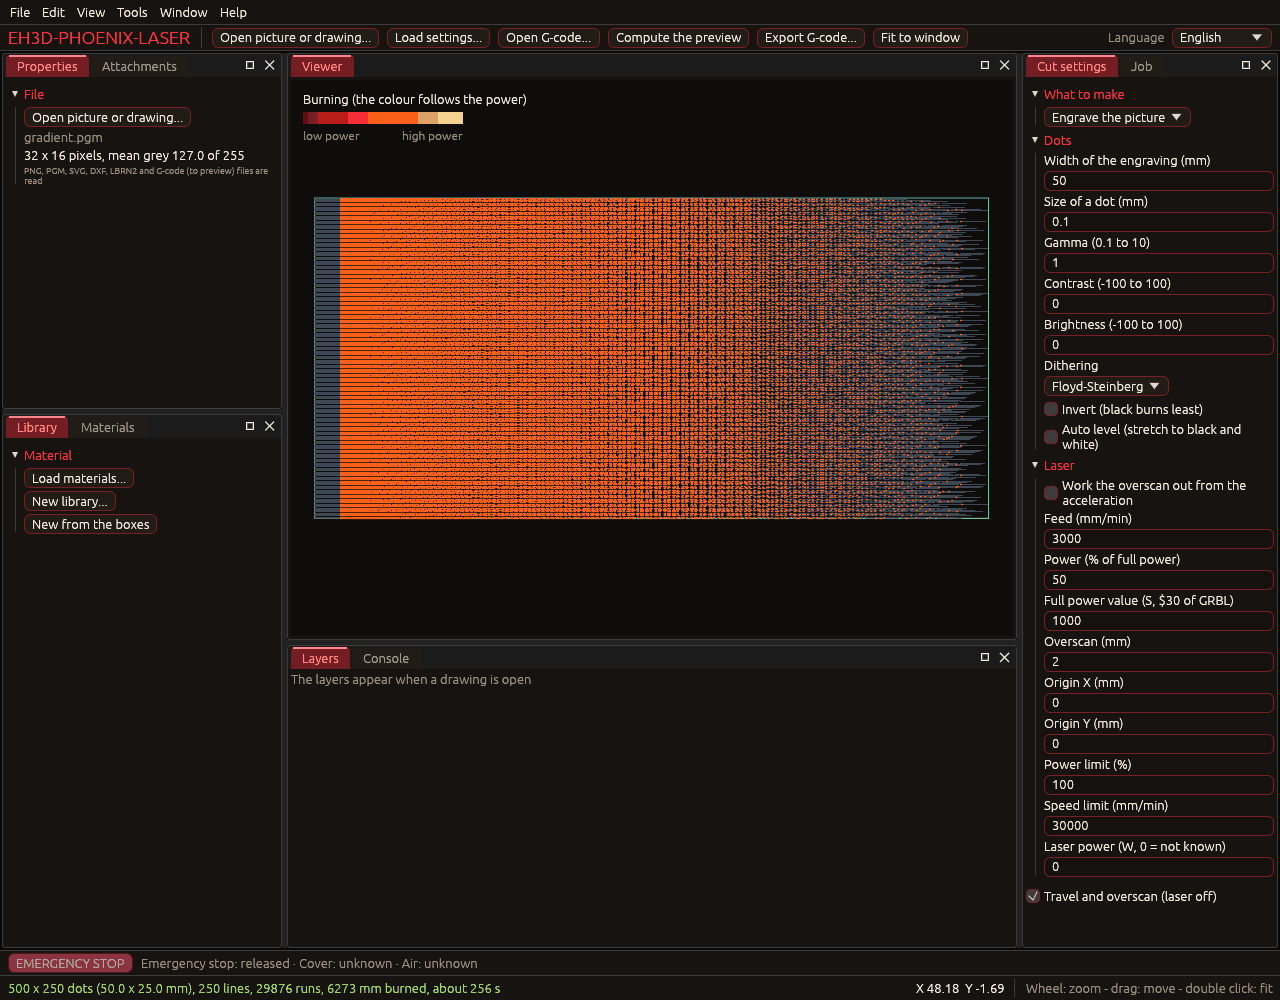
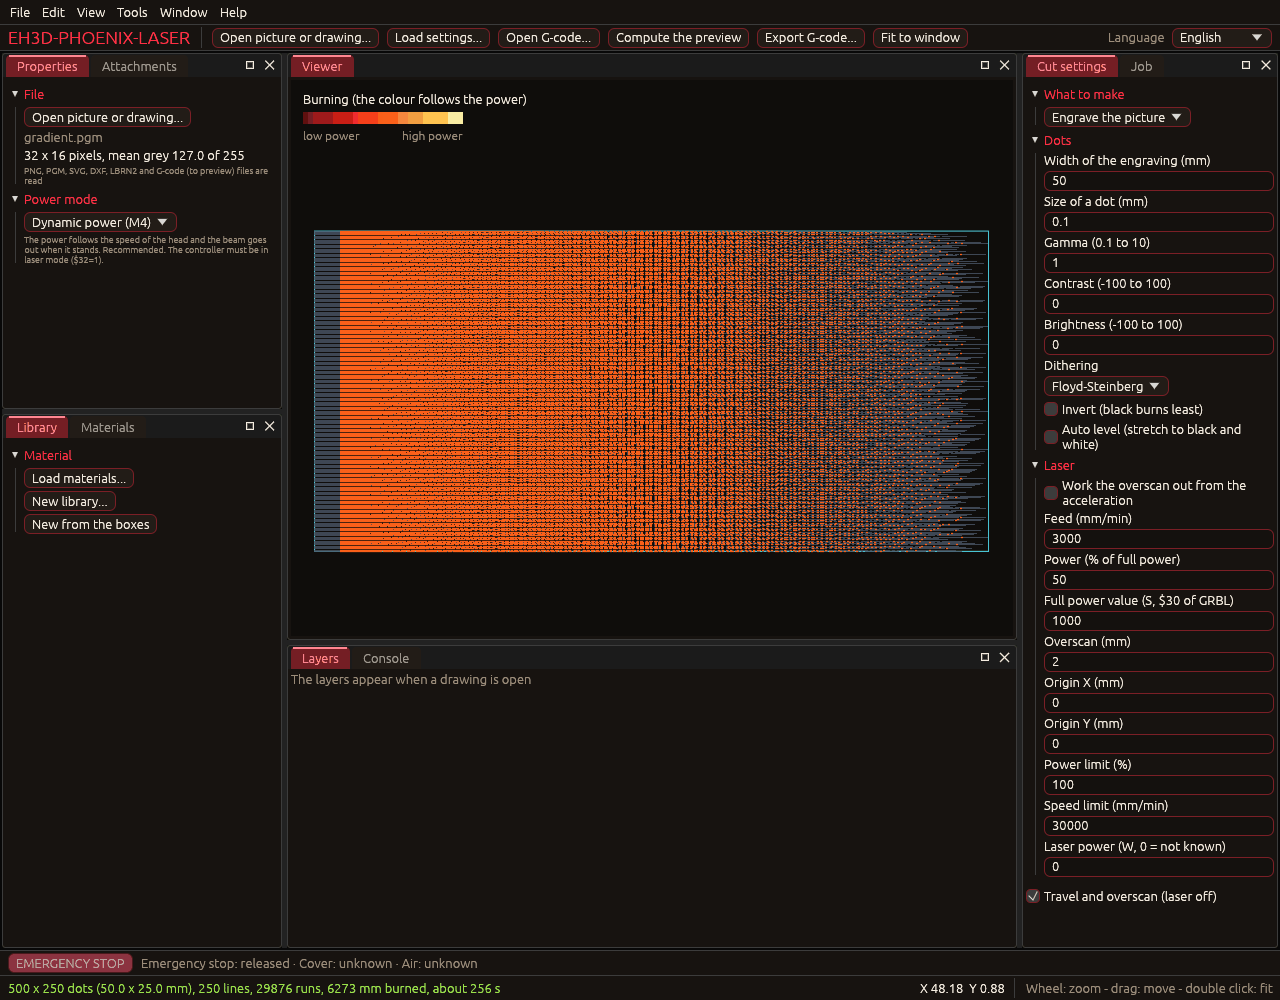
Count the new setting and renew the pictures of the window

diff --git a/tests/vector.rs b/tests/vector.rs
@@ -772,7 +772,7 @@ fn every_setting_the_file_reads_is_documented_and_every_documented_setting_is_re
         }
     }
     assert_eq!(layer_keys, 13, "{keys:?}");
-    assert_eq!(keys.len(), 13 + 134 + 11, "{keys:?}");
+    assert_eq!(keys.len(), 13 + 135 + 12, "{keys:?}");
     for k in &keys {
         assert!(
             doc.contains(&format!("`{k}`")),
